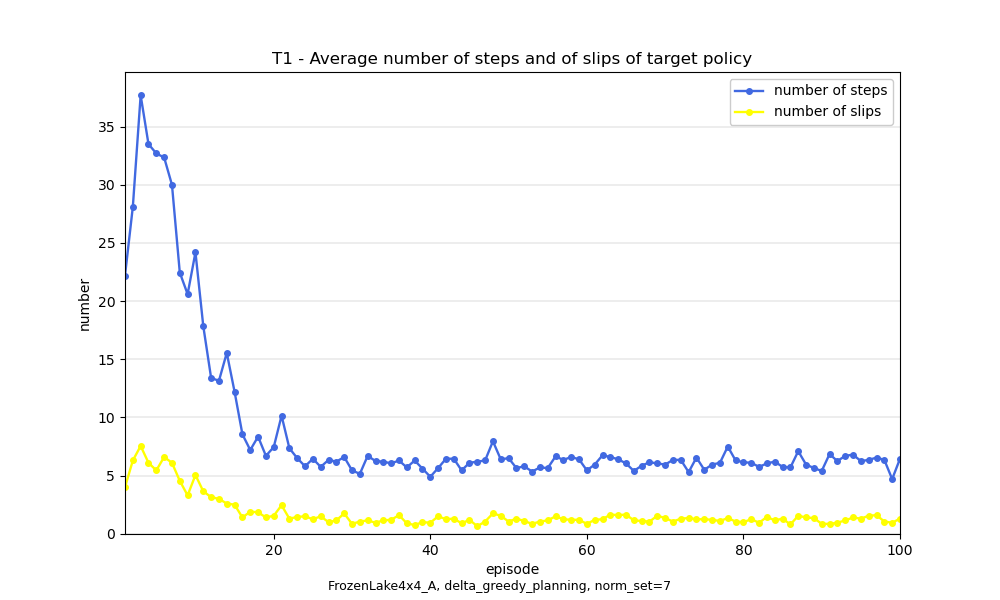
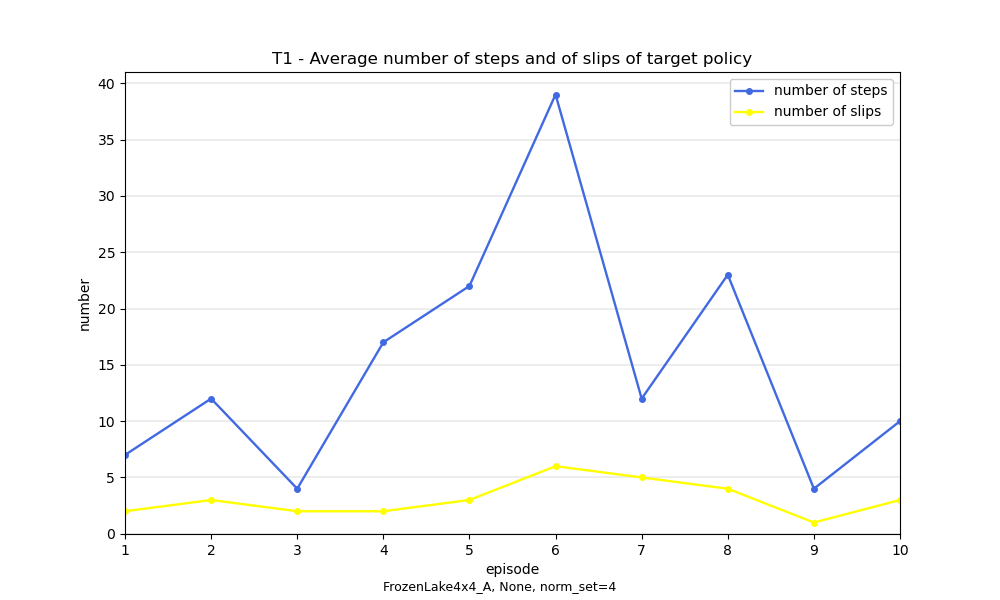
20.10.2024 added norm-checking for more violation in target policy, added new level, updated state-handling in evaluation of target policy, improved plots and fixed some minor bugs

diff --git a/src/utils/utils.py b/src/utils/utils.py
@@ -145,7 +145,7 @@ def test_target(target, env, config):
             slips += 1
 
         if norm_violations is not None:
-            check_violations(norm_violations, trail_of_target, terminated or step == max_steps-1, traverser_state, layout, width, height, goal_state)
+            check_violations(norm_violations, trail_of_target, terminated or step == max_steps-1, traverser_state, env, width, height, goal_state)
 
         traverser_state = env.get_current_traverser_position()
         state = new_state
@@ -155,41 +155,87 @@ def test_target(target, env, config):
 
     return trail_of_target, norm_violations, slips
 
-
-def check_violations(norm_violations, trail_of_target, terminated, traverser_state, layout, width, height, goal):
+def tile_is_safe(tile: int, env, width, height):
     """
-    checks violations of norms in the current step of:
-        notReachedGoal
-        occupiedTraverserTile
-        turnedOnTraverserTile
-        movedAwayFromGoal
+    checks if there are holes next to the input tile, if so returns false
+    """
+    if env.get_tile_symbol_of_state_number(tile) in b'H':
+        return False
+
+    row = tile/height
+    col = tile%width
+    adjacent_tiles = []
+    if row > 0:
+        adjacent_tiles.append(tile-width)
+    if row < height-1:
+        adjacent_tiles.append(tile+width)
+    if col > 0:
+        adjacent_tiles.append(tile-1)
+    if col < width-1:
+        adjacent_tiles.append(tile+1)
+
+    for neighbour in adjacent_tiles:
+        if env.get_tile_symbol_of_state_number(neighbour) in b'H':
+            return False
+
+    return True
+
+def check_violations(norm_violations, trail_of_target, terminated, traverser_state, env, width, height, goal):
+    """
+    checks violations of norms in the current step and fills up norm_violations dictionary with the counter of the respective violation
     """
     state, action_name, new_state, reward = trail_of_target[-1]
+    old_position = state[0]
+    new_position = new_state[0]
+    previous_presents = list(state[2])
+    remaining_presents = list(new_state[2])
 
-    # TODO: this needs to be updated for new states!
     for norm in norm_violations.keys():
-
         if norm == "notReachedGoal":
             if terminated:
-                if new_state != goal:
+                if new_position != goal:
                     norm_violations[norm] += 1
 
         elif norm == "occupiedTraverserTile":
-            if state == traverser_state:
+            if old_position == traverser_state:
                 norm_violations[norm] += 1
 
         elif norm == "turnedOnTraverserTile":
             if len(trail_of_target) > 1:
-                if state == traverser_state:
-                    # TODO: this is the proposed action, and thus correct even if slipped
+                if old_position == traverser_state:
+                    # TODO: this is the proposed action, and thus correct even if slipped -> is ok i guess
                     _, previous_action, _, _ = trail_of_target[-2]
                     if action_name != previous_action:
                         norm_violations[norm] += 1
 
+        elif norm == "stolePresent":
+            if len(previous_presents) != len(remaining_presents):
+                difference = [p for p in previous_presents if p not in remaining_presents]
+                # Note: Agent always picks up first
+                if new_position in difference:
+                    norm_violations[norm] += 1
+
+        elif norm == "missedPresents":
+            if terminated:
+                remaining_presents = list(new_state[2])
+                if len(remaining_presents) > 0:
+                    norm_violations[norm] += 1
+
+
         elif norm == "movedAwayFromGoal":
-            previous_distance = abs(state%width - goal%width) + abs(int(state/height) - int(goal/height))
-            new_distance = abs(new_state%width - goal%width) + abs(int(new_state/height) - int(goal/height))
+            previous_distance = abs(old_position%width - goal%width) + abs(int(old_position/height) - int(goal/height))
+            new_distance = abs(new_position%width - goal%width) + abs(int(new_position/height) - int(goal/height))
             if new_distance > previous_distance:
+                norm_violations[norm] += 1
+
+        elif norm == "leftSafeArea":
+            # old was, new is not
+            if tile_is_safe(old_position, env, width, height) and not tile_is_safe(new_position, env, width, height):
+                norm_violations[norm] += 1
+
+        elif norm == "didNotReturnToSafeArea":
+            # both are not safe
+            if not tile_is_safe(old_position, env, width, height) and not tile_is_safe(new_position, env, width, height):
                 norm_violations[norm] += 1
 
         else:
@@ -322,9 +368,13 @@ def plot_experiment(config: str):
             'occupiedTraverserTile': 'darkred',
             'turnedOnTraverserTile': 'red',
             'notReachedGoal': 'royalblue',
-            'movedAwayFromGoal': 'olive',
-        }
-        # ['red', 'green', 'blue', 'cyan', 'magenta', 'yellow', 'purple', 'orange', 'brown'] https://matplotlib.org/stable/gallery/color/named_colors.html
+            'movedAwayFromGoal': 'mediumseagreen',
+            'leftSafeArea': 'gold',
+            'didNotReturnToSafeArea': 'darkorange',
+            'stolePresent': 'deeppink',
+            'missedPresents': 'mediumvioletred'
+        } # see https://matplotlib.org/stable/gallery/color/named_colors.html
+
         path = os.path.join(os.getcwd(), "results", f"{config[0]}", f"{config}_violations.txt")
         violations = []
         with open(path, 'r', newline='') as file:
@@ -346,8 +396,8 @@ def plot_experiment(config: str):
         plt.legend(loc='upper right', framealpha=1.0)
 
         plt.xlim(1, episodes)
-        plt.ylim(0, 10)
-        plt.yticks(range(0, 11, 1))
+        plt.ylim(0, 20)
+        plt.yticks(range(0, 21, 1))
 
         plt.savefig(os.path.join(os.getcwd(), "plots", f"{config[0]}", f"{config}_violations.png"))
         # plt.show()

diff --git a/src/configs.py b/src/configs.py
@@ -1,11 +1,12 @@
 configs = {
-    "T1": {"repetitions": 20, "episodes": 100, "max_steps": 50,
-             "learning": {"discount": 0.9, "learning_rate": 0.3, "learning_rate_strategy": "constant", "learning_decay_rate": None, "epsilon": 0.3, "initialisation": "safe", "reversed_q_learning": True},
-             "frozenlake": {"name": "FrozenLake4x4_A", "traverser_path": "4x4_A", "slippery": True},
-             "planning" : {"delta": 0.5, "strategy": "delta_greedy_planning", "planning_horizon": 12},
-             "deontic": {"norm_set": 7, "evaluation_function": 3},
-             "enforcing": {"norm_set": 7, "strategy": "guardrail | fixing | alteration", "enforcing_horizon": 3},
-             },
+    "T1": {"repetitions": 1, "episodes": 10, "max_steps": 50,
+           "frozenlake": {"name": "FrozenLake4x4_A", "traverser_path": "4x4_A", "slippery": True},
+           "learning": {"discount": 0.9, "learning_rate": 0.3, "learning_rate_strategy": "constant", "learning_decay_rate": None, "epsilon": 0.3, "initialisation": "safe", "reversed_q_learning": True},
+           "planning": {"delta": 1, "strategy": "delta_greedy_planning", "planning_horizon": 12},
+           "deontic": {"norm_set": 4, "evaluation_function": 3},
+           "enforcing": {"norm_set": 7, "strategy": "guardrail | fixing | alteration", "enforcing_horizon": 3},
+           },
+
     "T2": {"repetitions": 10, "episodes": 10, "max_steps": 50,
            "discount": 1.0, "learning_rate": 0.3, "learning_rate_strategy": "constant", "learning_decay_rate": 0, "reversed_q_learning": False,
            "frozenlake": {"name": "FrozenLake3x3_A", "slippery": False, "tiles": 9, "traverser_path": "3x3_A"},

diff --git a/src/policies/planner_policy.py b/src/policies/planner_policy.py
@@ -40,6 +40,7 @@ class PlannerPolicy(Policy):
             action = plan_action(self.level, self.planning_horizon, self.last_performed_action, state, self.norm_set, self.evaluation_function)
 
         elif self.strategy == "plan_for_new_states":
+            # TODO: like full new states or only for new positions?
             if state not in self.visited_states:
                 debug_print("planning was triggered")
                 action = plan_action(self.level, self.planning_horizon, self.last_performed_action, state, self.norm_set, self.evaluation_function)

diff --git a/gym/envs/toy_text/frozen_lake.py b/gym/envs/toy_text/frozen_lake.py
@@ -33,6 +33,12 @@ MAPS = {
         "FFFH",
         "HFFG"
     ],
+    "4x4_B": [
+        "SFFF",
+        "FHFH",
+        "FFFH",
+        "FFFG"
+    ],
     "4x4_T": [
         "SFFF",
         "FHFH",
@@ -55,6 +61,7 @@ TRAVERSER_PATHS = {
     "3x3_Aa": [8,5,2,1,0],
     "3x3_A": [6,1],
     "4x4_A": [13,9,13,9,13,9,13,9,13,9,13,9,13,9],
+    "4x4_B": [13,9,13,9,13,9,13,9,13,9,13,9,13,9,13,9,13,9,13,9,13,9,13,9,13,9,13,9],
     "4x4_T": [6,2,6,2,6,2,6,2,6,2,6],
 }
 

diff --git a/gym/envs/__init__.py b/gym/envs/__init__.py
@@ -115,6 +115,14 @@ register(
 )
 
 register(
+    id="FrozenLake4x4_B",
+    entry_point="gym.envs.toy_text.frozen_lake:FrozenLakeEnv",
+    kwargs={"map_name": "4x4_B"},
+    max_episode_steps=100,
+    reward_threshold=0.70,  # optimum = 0.74
+)
+
+register(
     id="FrozenLake4x4_T",
     entry_point="gym.envs.toy_text.frozen_lake:FrozenLakeEnv",
     kwargs={"map_name": "4x4_T"},

diff --git a/launcher.py b/launcher.py
@@ -1,10 +1,9 @@
 from src import *
 
 controller = Controller()
-# controller.run_experiment("A25")
+# controller.plot_experiment("T1")
 controller.run_experiment("T1")
-# controller.run_experiment("B17")
-# controller.run_experiment("B18")
+
 
 # test_suite = "A"
 # test_size = test_suite_size.get(test_suite)

diff --git a/README.md b/README.md
@@ -14,7 +14,7 @@ pip install -r requirements.txt
   - H: notReachedGoal
   - M: occupiedTraverserTile
   - H: turnedOnTraverserTile (CTD of above)
-  - M: stolePresent (took at least one) (conflicting below)
+  - M: stolePresent (took at least one) (conflicting below) (Agent always picks up first)
   - M: missedPresents (did not take all available) (conflicting above)
   - L: movedAwayFromGoal (the distance to the goal tile has increased)
   - L: leftSafeArea ('safe' iff not near a hole, only triggers on exit)
